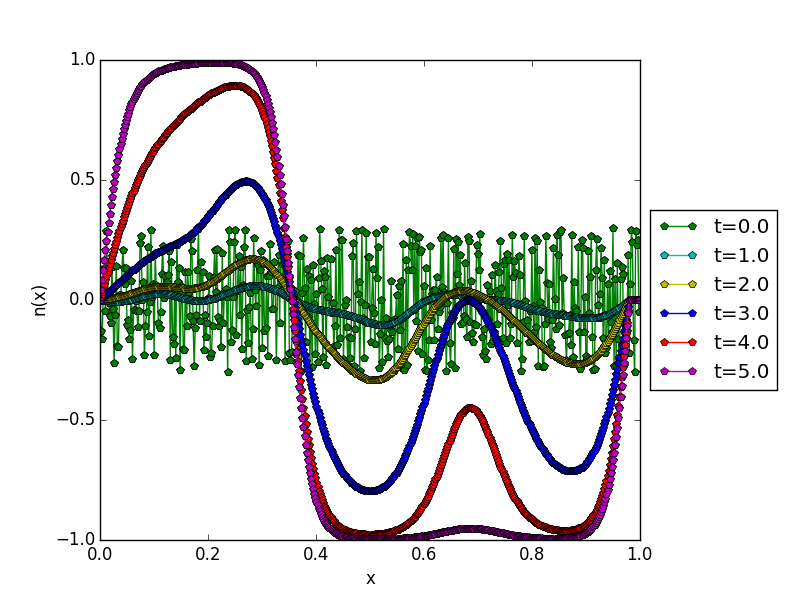
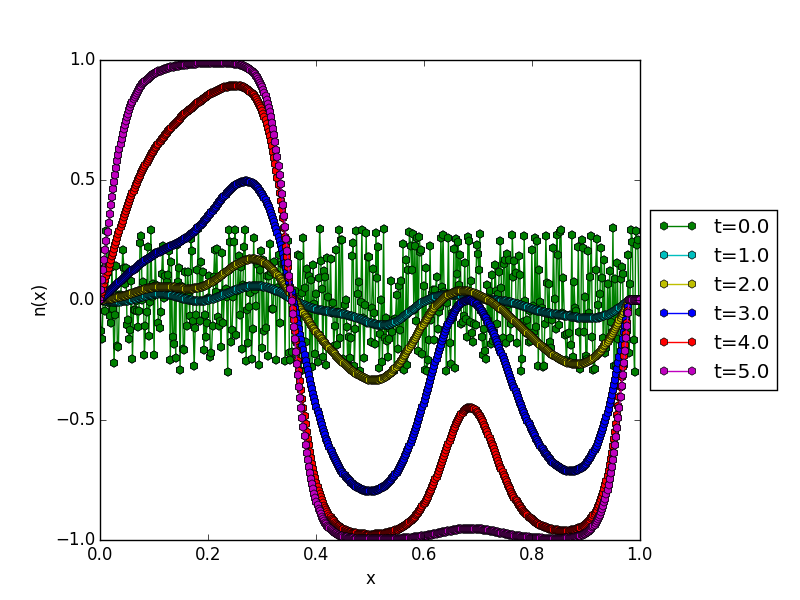
+ graficos

Changed region(s): [[0.125, 0.09, 0.8125, 0.9], [0.7812, 0.36, 0.8125, 0.42]]

diff --git a/parte2.py b/parte2.py
@@ -13,8 +13,9 @@ import numpy as np
 import matplotlib.pyplot as plt
 
 #semilla
-np.random.seed(123)
-
+#np.random.seed(123)
+#np.random.seed(8)
+np.random.seed(888888888)
 # funciones base
 '''
 def cond_ini(n, M):
@@ -99,13 +100,15 @@ fig.clf()
 ax = fig.add_subplot(111)
 
 for i in range(0, N_t, 500):
-    ax.plot(x, n_sol[i, :], "h")
-    ax.plot(x, n_sol[i, :], "-h", label="t="+str(i*dt))
+    ax.plot(x, n_sol[i, :], "p")
+    ax.plot(x, n_sol[i, :], "-p", label="t="+str(i*dt))
     ax.legend(loc='center left', bbox_to_anchor=(1., 0.5))
 plt.subplots_adjust(left=None, bottom=None, right=0.8, top=None, wspace=None,
                     hspace=None)
 plt.xlabel("x")
 plt.ylabel("n(x)")
-plt.savefig("NWS.png")
+#plt.savefig("NWS1.png") #semilla 123
+#plt.savefig("NWS2.png") #semilla 8
+plt.savefig("NSW3.png") #semilla 888888888
 plt.show()
 plt.draw()
